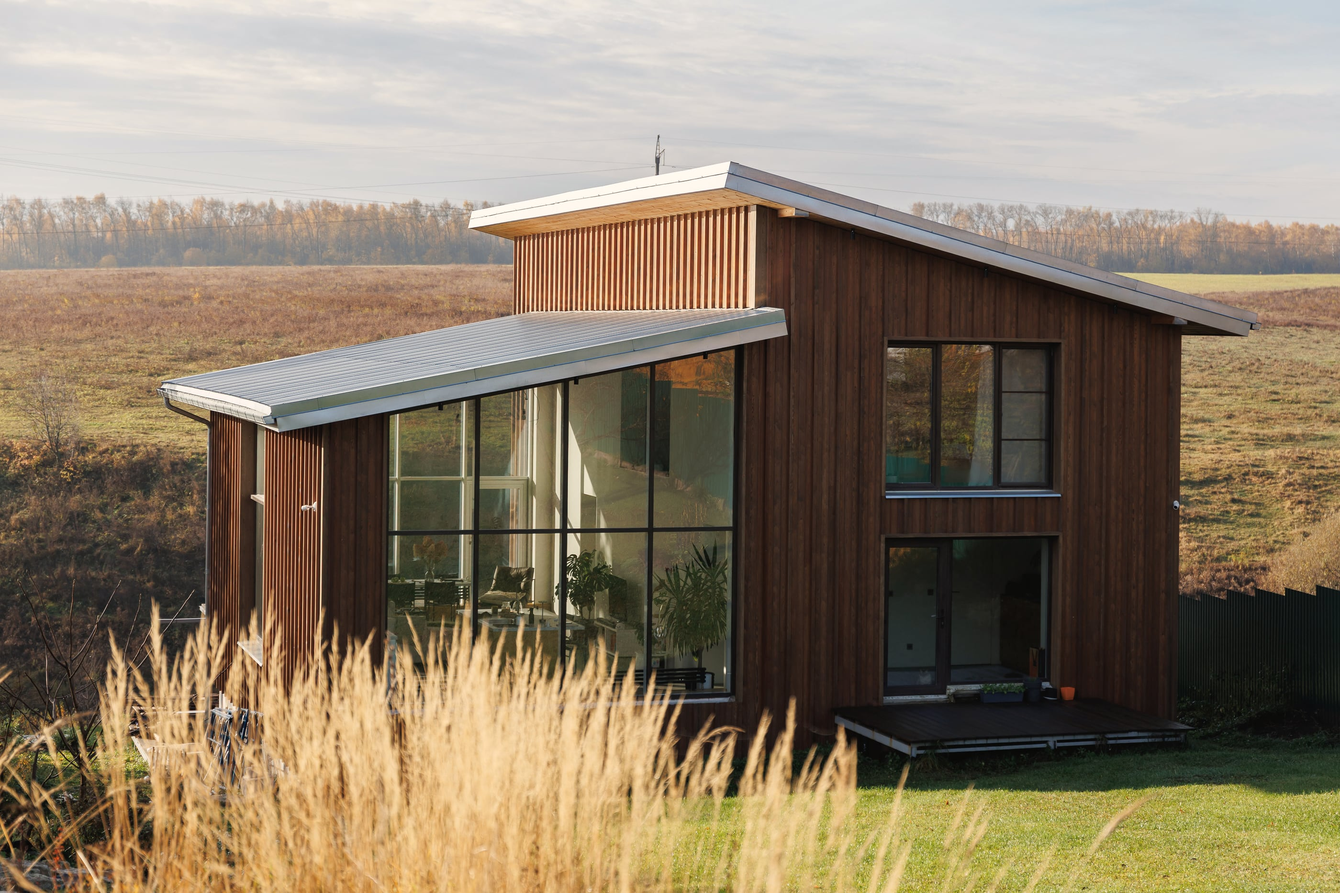
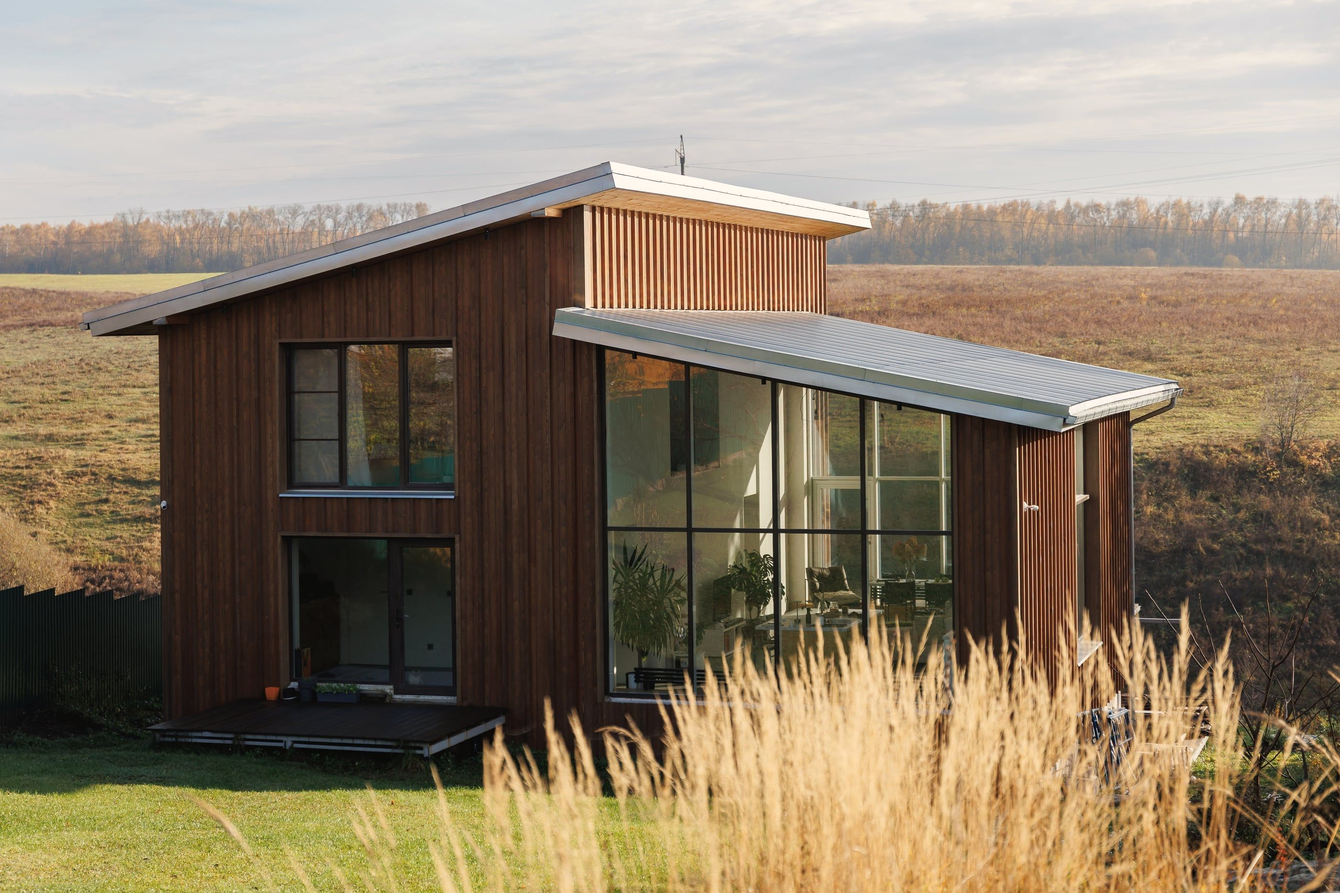
Главная: дом отзеркален по горизонтали, для просмотра.

diff --git a/sites/irina-architecture/lib/home.ts b/sites/irina-architecture/lib/home.ts
@@ -1,1 +1,1 @@
-export const homeHTML = "\n    <section class=\"hero\" id=\"top\" aria-label=\"Создаю многослойные, осмысленные проекты\">\n      <div class=\"hero-media\" aria-hidden=\"true\">\n        <div class=\"hero-panel\">\n          <img src=\"/assets/portrait.jpg\" alt=\"\">\n        </div>\n        <div class=\"hero-panel\">\n          <img src=\"/assets/mansion-hero.jpg\" alt=\"\">\n        </div>\n      </div>\n\n      <div class=\"hero-inner\">\n        <div class=\"hero-topline\">\n          <span>Архитектор · Владимир</span>\n          <span>Место / Смысл / Функция</span>\n          <span>Проектное бюро полного цикла</span>\n        </div>\n\n        <div class=\"hero-content\">\n          <h1 id=\"hero-title\" class=\"visually-hidden\">Архитектура в контексте места</h1>\n          <p class=\"hero-description\">Создаю многослойные, осмысленные проекты — от частных домов до туристических комплексов и общественных пространств.</p>\n          <a class=\"hero-action\" href=\"/portfolio\"><span class=\"hero-action-icon\" aria-hidden=\"true\"><svg viewBox=\"0 0 24 24\" fill=\"none\"><path d=\"M4 12h16m-5-5 5 5-5 5\" stroke=\"currentColor\" stroke-width=\"1.25\" stroke-linecap=\"round\" stroke-linejoin=\"round\"/></svg></span><span>Смотреть работы</span></a>\n        </div>\n      </div>\n      <span class=\"scroll-note\">Листайте вниз</span>\n    </section>\n\n    <section class=\"section\" id=\"about\">\n      <div class=\"intro-grid\">\n        <p class=\"section-label reveal home-section-label\">01 — Подход</p>\n        <h2 class=\"intro-title reveal\">Проект = решение</h2>\n        <div class=\"intro-copy reveal\">\n          <p>Я создаю современную архитектуру, всегда глубоко в контексте задачи, всегда многослойную и осмысленную. За каждым проектом стоит моё проектное бюро, комплексная экспертиза и умение решать задачи любой сложности на своей земле. Наши проекты живут, работают и помогают заказчикам достигать их целей — уверенно и надолго.</p>\n          <div class=\"micro-list\" aria-label=\"Принципы работы\">\n            <div class=\"micro-item\"><span>P/01</span>Контекст</div>\n            <div class=\"micro-item\"><span>P/02</span>Экспертиза</div>\n            <div class=\"micro-item\"><span>P/03</span>Реализация</div>\n          </div>\n        </div>\n      </div>\n    </section>\n\n    <div class=\"marquee\" aria-label=\"Компетенции бюро\">\n      <div class=\"marquee-track\">\n        <div class=\"marquee-group\">\n          <span class=\"marquee-item\">Мастер-планирование</span>\n          <span class=\"marquee-item\">Архитектурные концепции</span>\n          <span class=\"marquee-item\">Проектирование</span>\n          <span class=\"marquee-item\">Авторский надзор</span>\n          <span class=\"marquee-item\">Управление строительством</span>\n          <span class=\"marquee-item\">Исследования</span>\n        </div>\n        <div class=\"marquee-group\" aria-hidden=\"true\">\n          <span class=\"marquee-item\">Мастер-планирование</span>\n          <span class=\"marquee-item\">Архитектурные концепции</span>\n          <span class=\"marquee-item\">Проектирование</span>\n          <span class=\"marquee-item\">Авторский надзор</span>\n          <span class=\"marquee-item\">Управление строительством</span>\n          <span class=\"marquee-item\">Исследования</span>\n        </div>\n      </div>\n    </div>\n\n    <section class=\"section directions\" id=\"directions\">\n      <div class=\"section-head reveal\">\n        <div>\n          <p class=\"section-label home-section-label\">02 — Направления</p>\n          <h2>Четыре направления работы</h2>\n        </div>\n        <span class=\"section-index\">FIELDS / 04</span>\n      </div>\n\n      <div class=\"direction-grid\">\n        <a href=\"/napravleniya/vladimir\" class=\"direction-card reveal\">\n          <div class=\"media-frame\">\n            <img src=\"/assets/territory.jpg\" alt=\"Архитектурная концепция территории\" loading=\"lazy\">\n            \n          </div>\n          <div class=\"direction-meta\">\n            <div>\n              <span class=\"direction-kicker\">Context / 01</span>\n              <h3>Владимирский контекст</h3>\n              <p>Владимирская земля для меня не фон, а родной контекст. Развиваю местную школу и собираю решение, уместное именно здесь. Мы дома: знаем людей, процессы и ограничения. Главное — исследование, концепция, облик и мастер-план, с которыми можно выходить на защиту.</p>\n            </div>\n            <span class=\"direction-action\"><span class=\"direction-link-arrow\" aria-hidden=\"true\"><svg viewBox=\"0 0 24 24\" fill=\"none\"><path d=\"M4 12h16m-5-5 5 5-5 5\" stroke=\"currentColor\" stroke-width=\"1.25\" stroke-linecap=\"round\" stroke-linejoin=\"round\"/></svg></span><span>Как я работаю</span></span>\n          </div>\n        </a>\n\n        <a href=\"/portfolio\" id=\"hospitality\" class=\"direction-card direction-fullbleed reveal\">\n          <div class=\"media-frame\">\n            <img src=\"/assets/resort.jpg\" alt=\"Туристический комплекс в природном ландшафте\" loading=\"lazy\">\n            \n          </div>\n          <div class=\"direction-meta\">\n            <div>\n              <span class=\"direction-kicker\">Hospitality / 02</span>\n              <h3>Живое гостеприимство</h3>\n              <p>Беру туристический объект только если вижу, как он будет привлекать гостей, удерживать их и вызывать повторный спрос. Архитектура здесь не декорация, а причина выбрать место и точка роста территории, а не просто здание на участке. Соединяю образ, экономику, опыт гостя и реализацию. Отличаю то, что красиво открывается, от того, что потом живёт.</p>\n            </div>\n            <span class=\"direction-action\"><span class=\"direction-link-arrow\" aria-hidden=\"true\"><svg viewBox=\"0 0 24 24\" fill=\"none\"><path d=\"M4 12h16m-5-5 5 5-5 5\" stroke=\"currentColor\" stroke-width=\"1.25\" stroke-linecap=\"round\" stroke-linejoin=\"round\"/></svg></span><span>Как я работаю</span></span>\n          </div>\n        </a>\n\n        <a href=\"/consulting\" class=\"direction-card reveal\">\n          <div class=\"media-frame\">\n            <img src=\"/assets/chapel.jpg\" alt=\"Современная часовня из светлого камня\" loading=\"lazy\">\n            \n          </div>\n          <div class=\"direction-meta\">\n            <div>\n              <span class=\"direction-kicker\">Consulting / 03</span>\n              <h3>Консалтинг</h3>\n              <p>Можно консультироваться, не запуская проектирование или стройку. Я сама предлагаю этот шаг: разобраться в деталях и наметить путь. Рекомендации — из исследования и практики, не из общих схем. Смотрю задачу целиком: смысл, архитектура, экономика, согласования и то, как объект будет жить.</p>\n            </div>\n            <span class=\"direction-action\"><span class=\"direction-link-arrow\" aria-hidden=\"true\"><svg viewBox=\"0 0 24 24\" fill=\"none\"><path d=\"M4 12h16m-5-5 5 5-5 5\" stroke=\"currentColor\" stroke-width=\"1.25\" stroke-linecap=\"round\" stroke-linejoin=\"round\"/></svg></span><span>Как я работаю</span></span>\n          </div>\n        </a>\n\n        <a href=\"/portfolio\" class=\"direction-card direction-fullbleed reveal\">\n          <div class=\"media-frame\">\n            <img src=\"/assets/house.jpg\" alt=\"Современный частный дом\" loading=\"lazy\">\n            \n          </div>\n          <div class=\"direction-meta\">\n            <div>\n              <span class=\"direction-kicker\">Private / 04</span>\n              <h3>Частные владения</h3>\n              <p>Частный дом для меня — не метраж, а способ жить на своей земле. Собираю без лишнего: характер из вашей жизни, традиции места и природа в ансамбле, быт на своих местах. На площадке — прямой разговор между вами, проектом и теми, кто строит: комфорт сегодня и запас на годы вперёд.</p>\n            </div>\n            <span class=\"direction-action\"><span class=\"direction-link-arrow\" aria-hidden=\"true\"><svg viewBox=\"0 0 24 24\" fill=\"none\"><path d=\"M4 12h16m-5-5 5 5-5 5\" stroke=\"currentColor\" stroke-width=\"1.25\" stroke-linecap=\"round\" stroke-linejoin=\"round\"/></svg></span><span>Как я работаю</span></span>\n          </div>\n        </a>\n      </div>\n    </section>\n\n    <section class=\"section projects\" id=\"projects\">\n      <div class=\"section-head reveal\">\n        <div>\n          <p class=\"section-label home-section-label\">03 — Избранные проекты</p>\n          <h2>Работы, которые живут</h2>\n        </div>\n        <a class=\"text-link\" href=\"/portfolio\">Все проекты</a>\n      </div>\n\n      <div class=\"project-grid\">\n        <a href=\"/portfolio/usadba\" class=\"project-card reveal\">\n          <div class=\"media-frame\">\n            <img src=\"/assets/mansion.jpg\" alt=\"Дом у бора\" loading=\"lazy\">\n            <span class=\"image-tag\">Реализован · 2024</span>\n          </div>\n          <div class=\"project-meta\">\n            <div>\n              <span class=\"project-kicker\">Частный дом · Владимирский край</span>\n              <h3>Дом у бора</h3>\n              <p>Спокойная архитектурная рама для света и лесного ландшафта.</p>\n            </div>\n            \n          </div>\n        </a>\n\n        <a href=\"/portfolio/complex\" class=\"project-card reveal\">\n          <div class=\"media-frame\">\n            <img src=\"/assets/resort.jpg\" alt=\"Двор на склоне\" loading=\"lazy\">\n            <span class=\"image-tag\">Реализован · 2024</span>\n          </div>\n          <div class=\"project-meta\">\n            <div>\n              <span class=\"project-kicker\">Гостеприимство · Владимирский край</span>\n              <h3>Двор на склоне</h3>\n              <p>Каменные и деревянные павильоны вокруг живого общего двора.</p>\n            </div>\n            \n          </div>\n        </a>\n\n        <a href=\"/portfolio/lodge\" class=\"project-card reveal\">\n          <div class=\"media-frame\">\n            <img src=\"/assets/lodge.jpg\" alt=\"Ночной сруб\" loading=\"lazy\">\n            <span class=\"image-tag\">В работе · 2024</span>\n          </div>\n          <div class=\"project-meta\">\n            <div>\n              <span class=\"project-kicker\">Гостеприимство · Владимирский край</span>\n              <h3>Ночной сруб</h3>\n              <p>Спа-лодж со сдержанным внутренним светом и выразительной фактурой дерева.</p>\n            </div>\n            \n          </div>\n        </a>\n\n        <a href=\"/portfolio/chapel\" class=\"project-card reveal\">\n          <div class=\"media-frame\">\n            <img src=\"/assets/chapel.jpg\" alt=\"Белая щель\" loading=\"lazy\">\n            <span class=\"image-tag\">Реализован · 2024</span>\n          </div>\n          <div class=\"project-meta\">\n            <div>\n              <span class=\"project-kicker\">Храм · Владимирский край</span>\n              <h3>Белая щель</h3>\n              <p>Белый камень, дерево и одно высокое окно как главный источник света.</p>\n            </div>\n            \n          </div>\n        </a>\n      </div>\n    </section>\n\n    <div class=\"practice-overview\"><section class=\"practice-panel reveal\" id=\"bureau\" aria-labelledby=\"bureau-overview-title\"><div><p class=\"section-label home-section-label\">04 — Проектное бюро</p><h2 id=\"bureau-overview-title\">От замысла до площадки</h2></div><div class=\"practice-panel-copy\"><p>Инженерная, градостроительная, экономическая и сервисная экспертиза. Своя команда ведёт проект как единую систему — от предпроектного анализа и рабочей документации до авторского надзора и управления строительством.</p><div class=\"practice-panel-image\"><img src=\"/assets/bureau.jpg\" alt=\"Работа архитектурного бюро\" loading=\"lazy\"></div><a class=\"text-link\" href=\"/bureau\">\n            <span>Начать диалог с бюро</span>\n            \n          </a></div></section><section class=\"practice-panel reveal\" id=\"lab\" aria-labelledby=\"lab-overview-title\"><div><p class=\"section-label home-section-label\">05 — Лаборатория</p><h2 id=\"lab-overview-title\">Лаборатория «Владимир»</h2></div><div class=\"practice-panel-copy\"><p>Независимый исследовательский проект по сохранению и развитию архитектурно-пространственного кода Владимирской земли. Исследуем наследие и ищем, как его принципы работают в современных условиях.</p><div class=\"practice-panel-image\"><img src=\"/assets/lab.jpg\" alt=\"Исследование архитектурного наследия Владимира\" loading=\"lazy\"></div><a class=\"text-link\" href=\"/lab\">\n          <span>Узнать о лаборатории</span>\n          \n        </a></div></section></div>\n\n    ";
+export const homeHTML = "\n    <section class=\"hero\" id=\"top\" aria-label=\"Создаю многослойные, осмысленные проекты\">\n      <div class=\"hero-media\" aria-hidden=\"true\">\n        <div class=\"hero-panel\">\n          <img src=\"/assets/portrait.jpg\" alt=\"\">\n        </div>\n        <div class=\"hero-panel\">\n          <img src=\"/assets/mansion-hero.jpg?flip=1\" alt=\"\">\n        </div>\n      </div>\n\n      <div class=\"hero-inner\">\n        <div class=\"hero-topline\">\n          <span>Архитектор · Владимир</span>\n          <span>Место / Смысл / Функция</span>\n          <span>Проектное бюро полного цикла</span>\n        </div>\n\n        <div class=\"hero-content\">\n          <h1 id=\"hero-title\" class=\"visually-hidden\">Архитектура в контексте места</h1>\n          <p class=\"hero-description\">Создаю многослойные, осмысленные проекты — от частных домов до туристических комплексов и общественных пространств.</p>\n          <a class=\"hero-action\" href=\"/portfolio\"><span class=\"hero-action-icon\" aria-hidden=\"true\"><svg viewBox=\"0 0 24 24\" fill=\"none\"><path d=\"M4 12h16m-5-5 5 5-5 5\" stroke=\"currentColor\" stroke-width=\"1.25\" stroke-linecap=\"round\" stroke-linejoin=\"round\"/></svg></span><span>Смотреть работы</span></a>\n        </div>\n      </div>\n      <span class=\"scroll-note\">Листайте вниз</span>\n    </section>\n\n    <section class=\"section\" id=\"about\">\n      <div class=\"intro-grid\">\n        <p class=\"section-label reveal home-section-label\">01 — Подход</p>\n        <h2 class=\"intro-title reveal\">Проект = решение</h2>\n        <div class=\"intro-copy reveal\">\n          <p>Я создаю современную архитектуру, всегда глубоко в контексте задачи, всегда многослойную и осмысленную. За каждым проектом стоит моё проектное бюро, комплексная экспертиза и умение решать задачи любой сложности на своей земле. Наши проекты живут, работают и помогают заказчикам достигать их целей — уверенно и надолго.</p>\n          <div class=\"micro-list\" aria-label=\"Принципы работы\">\n            <div class=\"micro-item\"><span>P/01</span>Контекст</div>\n            <div class=\"micro-item\"><span>P/02</span>Экспертиза</div>\n            <div class=\"micro-item\"><span>P/03</span>Реализация</div>\n          </div>\n        </div>\n      </div>\n    </section>\n\n    <div class=\"marquee\" aria-label=\"Компетенции бюро\">\n      <div class=\"marquee-track\">\n        <div class=\"marquee-group\">\n          <span class=\"marquee-item\">Мастер-планирование</span>\n          <span class=\"marquee-item\">Архитектурные концепции</span>\n          <span class=\"marquee-item\">Проектирование</span>\n          <span class=\"marquee-item\">Авторский надзор</span>\n          <span class=\"marquee-item\">Управление строительством</span>\n          <span class=\"marquee-item\">Исследования</span>\n        </div>\n        <div class=\"marquee-group\" aria-hidden=\"true\">\n          <span class=\"marquee-item\">Мастер-планирование</span>\n          <span class=\"marquee-item\">Архитектурные концепции</span>\n          <span class=\"marquee-item\">Проектирование</span>\n          <span class=\"marquee-item\">Авторский надзор</span>\n          <span class=\"marquee-item\">Управление строительством</span>\n          <span class=\"marquee-item\">Исследования</span>\n        </div>\n      </div>\n    </div>\n\n    <section class=\"section directions\" id=\"directions\">\n      <div class=\"section-head reveal\">\n        <div>\n          <p class=\"section-label home-section-label\">02 — Направления</p>\n          <h2>Четыре направления работы</h2>\n        </div>\n        <span class=\"section-index\">FIELDS / 04</span>\n      </div>\n\n      <div class=\"direction-grid\">\n        <a href=\"/napravleniya/vladimir\" class=\"direction-card reveal\">\n          <div class=\"media-frame\">\n            <img src=\"/assets/territory.jpg\" alt=\"Архитектурная концепция территории\" loading=\"lazy\">\n            \n          </div>\n          <div class=\"direction-meta\">\n            <div>\n              <span class=\"direction-kicker\">Context / 01</span>\n              <h3>Владимирский контекст</h3>\n              <p>Владимирская земля для меня не фон, а родной контекст. Развиваю местную школу и собираю решение, уместное именно здесь. Мы дома: знаем людей, процессы и ограничения. Главное — исследование, концепция, облик и мастер-план, с которыми можно выходить на защиту.</p>\n            </div>\n            <span class=\"direction-action\"><span class=\"direction-link-arrow\" aria-hidden=\"true\"><svg viewBox=\"0 0 24 24\" fill=\"none\"><path d=\"M4 12h16m-5-5 5 5-5 5\" stroke=\"currentColor\" stroke-width=\"1.25\" stroke-linecap=\"round\" stroke-linejoin=\"round\"/></svg></span><span>Как я работаю</span></span>\n          </div>\n        </a>\n\n        <a href=\"/portfolio\" id=\"hospitality\" class=\"direction-card direction-fullbleed reveal\">\n          <div class=\"media-frame\">\n            <img src=\"/assets/resort.jpg\" alt=\"Туристический комплекс в природном ландшафте\" loading=\"lazy\">\n            \n          </div>\n          <div class=\"direction-meta\">\n            <div>\n              <span class=\"direction-kicker\">Hospitality / 02</span>\n              <h3>Живое гостеприимство</h3>\n              <p>Беру туристический объект только если вижу, как он будет привлекать гостей, удерживать их и вызывать повторный спрос. Архитектура здесь не декорация, а причина выбрать место и точка роста территории, а не просто здание на участке. Соединяю образ, экономику, опыт гостя и реализацию. Отличаю то, что красиво открывается, от того, что потом живёт.</p>\n            </div>\n            <span class=\"direction-action\"><span class=\"direction-link-arrow\" aria-hidden=\"true\"><svg viewBox=\"0 0 24 24\" fill=\"none\"><path d=\"M4 12h16m-5-5 5 5-5 5\" stroke=\"currentColor\" stroke-width=\"1.25\" stroke-linecap=\"round\" stroke-linejoin=\"round\"/></svg></span><span>Как я работаю</span></span>\n          </div>\n        </a>\n\n        <a href=\"/consulting\" class=\"direction-card reveal\">\n          <div class=\"media-frame\">\n            <img src=\"/assets/chapel.jpg\" alt=\"Современная часовня из светлого камня\" loading=\"lazy\">\n            \n          </div>\n          <div class=\"direction-meta\">\n            <div>\n              <span class=\"direction-kicker\">Consulting / 03</span>\n              <h3>Консалтинг</h3>\n              <p>Можно консультироваться, не запуская проектирование или стройку. Я сама предлагаю этот шаг: разобраться в деталях и наметить путь. Рекомендации — из исследования и практики, не из общих схем. Смотрю задачу целиком: смысл, архитектура, экономика, согласования и то, как объект будет жить.</p>\n            </div>\n            <span class=\"direction-action\"><span class=\"direction-link-arrow\" aria-hidden=\"true\"><svg viewBox=\"0 0 24 24\" fill=\"none\"><path d=\"M4 12h16m-5-5 5 5-5 5\" stroke=\"currentColor\" stroke-width=\"1.25\" stroke-linecap=\"round\" stroke-linejoin=\"round\"/></svg></span><span>Как я работаю</span></span>\n          </div>\n        </a>\n\n        <a href=\"/portfolio\" class=\"direction-card direction-fullbleed reveal\">\n          <div class=\"media-frame\">\n            <img src=\"/assets/house.jpg\" alt=\"Современный частный дом\" loading=\"lazy\">\n            \n          </div>\n          <div class=\"direction-meta\">\n            <div>\n              <span class=\"direction-kicker\">Private / 04</span>\n              <h3>Частные владения</h3>\n              <p>Частный дом для меня — не метраж, а способ жить на своей земле. Собираю без лишнего: характер из вашей жизни, традиции места и природа в ансамбле, быт на своих местах. На площадке — прямой разговор между вами, проектом и теми, кто строит: комфорт сегодня и запас на годы вперёд.</p>\n            </div>\n            <span class=\"direction-action\"><span class=\"direction-link-arrow\" aria-hidden=\"true\"><svg viewBox=\"0 0 24 24\" fill=\"none\"><path d=\"M4 12h16m-5-5 5 5-5 5\" stroke=\"currentColor\" stroke-width=\"1.25\" stroke-linecap=\"round\" stroke-linejoin=\"round\"/></svg></span><span>Как я работаю</span></span>\n          </div>\n        </a>\n      </div>\n    </section>\n\n    <section class=\"section projects\" id=\"projects\">\n      <div class=\"section-head reveal\">\n        <div>\n          <p class=\"section-label home-section-label\">03 — Избранные проекты</p>\n          <h2>Работы, которые живут</h2>\n        </div>\n        <a class=\"text-link\" href=\"/portfolio\">Все проекты</a>\n      </div>\n\n      <div class=\"project-grid\">\n        <a href=\"/portfolio/usadba\" class=\"project-card reveal\">\n          <div class=\"media-frame\">\n            <img src=\"/assets/mansion.jpg\" alt=\"Дом у бора\" loading=\"lazy\">\n            <span class=\"image-tag\">Реализован · 2024</span>\n          </div>\n          <div class=\"project-meta\">\n            <div>\n              <span class=\"project-kicker\">Частный дом · Владимирский край</span>\n              <h3>Дом у бора</h3>\n              <p>Спокойная архитектурная рама для света и лесного ландшафта.</p>\n            </div>\n            \n          </div>\n        </a>\n\n        <a href=\"/portfolio/complex\" class=\"project-card reveal\">\n          <div class=\"media-frame\">\n            <img src=\"/assets/resort.jpg\" alt=\"Двор на склоне\" loading=\"lazy\">\n            <span class=\"image-tag\">Реализован · 2024</span>\n          </div>\n          <div class=\"project-meta\">\n            <div>\n              <span class=\"project-kicker\">Гостеприимство · Владимирский край</span>\n              <h3>Двор на склоне</h3>\n              <p>Каменные и деревянные павильоны вокруг живого общего двора.</p>\n            </div>\n            \n          </div>\n        </a>\n\n        <a href=\"/portfolio/lodge\" class=\"project-card reveal\">\n          <div class=\"media-frame\">\n            <img src=\"/assets/lodge.jpg\" alt=\"Ночной сруб\" loading=\"lazy\">\n            <span class=\"image-tag\">В работе · 2024</span>\n          </div>\n          <div class=\"project-meta\">\n            <div>\n              <span class=\"project-kicker\">Гостеприимство · Владимирский край</span>\n              <h3>Ночной сруб</h3>\n              <p>Спа-лодж со сдержанным внутренним светом и выразительной фактурой дерева.</p>\n            </div>\n            \n          </div>\n        </a>\n\n        <a href=\"/portfolio/chapel\" class=\"project-card reveal\">\n          <div class=\"media-frame\">\n            <img src=\"/assets/chapel.jpg\" alt=\"Белая щель\" loading=\"lazy\">\n            <span class=\"image-tag\">Реализован · 2024</span>\n          </div>\n          <div class=\"project-meta\">\n            <div>\n              <span class=\"project-kicker\">Храм · Владимирский край</span>\n              <h3>Белая щель</h3>\n              <p>Белый камень, дерево и одно высокое окно как главный источник света.</p>\n            </div>\n            \n          </div>\n        </a>\n      </div>\n    </section>\n\n    <div class=\"practice-overview\"><section class=\"practice-panel reveal\" id=\"bureau\" aria-labelledby=\"bureau-overview-title\"><div><p class=\"section-label home-section-label\">04 — Проектное бюро</p><h2 id=\"bureau-overview-title\">От замысла до площадки</h2></div><div class=\"practice-panel-copy\"><p>Инженерная, градостроительная, экономическая и сервисная экспертиза. Своя команда ведёт проект как единую систему — от предпроектного анализа и рабочей документации до авторского надзора и управления строительством.</p><div class=\"practice-panel-image\"><img src=\"/assets/bureau.jpg\" alt=\"Работа архитектурного бюро\" loading=\"lazy\"></div><a class=\"text-link\" href=\"/bureau\">\n            <span>Начать диалог с бюро</span>\n            \n          </a></div></section><section class=\"practice-panel reveal\" id=\"lab\" aria-labelledby=\"lab-overview-title\"><div><p class=\"section-label home-section-label\">05 — Лаборатория</p><h2 id=\"lab-overview-title\">Лаборатория «Владимир»</h2></div><div class=\"practice-panel-copy\"><p>Независимый исследовательский проект по сохранению и развитию архитектурно-пространственного кода Владимирской земли. Исследуем наследие и ищем, как его принципы работают в современных условиях.</p><div class=\"practice-panel-image\"><img src=\"/assets/lab.jpg\" alt=\"Исследование архитектурного наследия Владимира\" loading=\"lazy\"></div><a class=\"text-link\" href=\"/lab\">\n          <span>Узнать о лаборатории</span>\n          \n        </a></div></section></div>\n\n    ";
